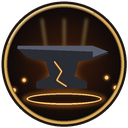
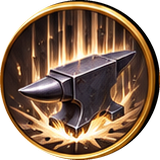
1차 전직 스킬 75종에 금테 원형 아이콘 적용

diff --git a/js/skillui.js b/js/skillui.js
@@ -41,8 +41,21 @@ function glyph(g, d) {
   else { g.lineWidth = 6; g.beginPath(); g.moveTo(0, 24); g.lineTo(0, -20); g.moveTo(-14, -6); g.lineTo(0, -22); g.lineTo(14, -6); g.stroke(); }
   g.restore();
 }
-// 그림 아이콘이 있는 스킬(견습생 기본 검술 8종·약사 1차 15종, tools/ui/skill_icons_crop.py → assets/ui/skills/<id>.png). 나머지는 아래 캔버스 임시 아이콘.
-const SKILL_ART = new Set(['nv_a1', 'nv_a2', 'nv_a3', 'nv_a4', 'nv_p1', 'nv_p2', 'nv_p3', 'nv_p4', ...['a1', 'a3', 'a4', 'a5', 'a6', 'b1', 'b2', 'b4', 'b5', 'b6', 'c1', 'c6', 'c7', 'c8', 'c9'].map(k => 'ph1_' + k), ...['a1', 'a2', 'a3', 'a4', 'a5', 'b1', 'b2', 'b3', 'b4', 'b5', 'c1', 'c2', 'c3', 'c4', 'c5'].map(k => 'bs1_' + k), ...['a1', 'a2', 'a3', 'a4', 'a5', 'b1', 'b2', 'b3', 'b4', 'b5', 'c1', 'c2', 'c3', 'c4', 'c5'].map(k => 'wp_' + k), ...['a1', 'a2', 'a3', 'a4', 'a5', 'b1', 'b2', 'b3', 'b4', 'b5', 'c1', 'c2', 'c3', 'c4', 'c5'].map(k => 'cf_' + k), ...['a1', 'a2', 'a3', 'a4', 'a5', 'b1', 'b2', 'b3', 'b4', 'b5', 'c1', 'c2', 'c3', 'c4', 'c5'].map(k => 'hb_' + k), ...['a1', 'a2', 'a3', 'a4', 'a5', 'b1', 'b2', 'b3', 'b4', 'b5', 'c1', 'c2', 'c3', 'c4', 'c5'].map(k => 'en_' + k), ...['a1', 'a2', 'a3', 'a4', 'a5', 'b1', 'b2', 'b3', 'b4', 'b5', 'c1', 'c2', 'c3', 'c4', 'c5'].map(k => 'ds_' + k), ...['a1', 'a2', 'a3', 'a4', 'a5', 'b1', 'b2', 'b3', 'b4', 'b5', 'c1', 'c2', 'c3', 'c4', 'c5'].map(k => 'pt_' + k), ...['a1', 'a2', 'a3', 'a4', 'a5', 'b1', 'b2', 'b3', 'b4', 'b5', 'c1', 'c2', 'c3', 'c4', 'c5'].map(k => 'mu_' + k)]);   // + 화가 2차 15종(tools/ui/painter_icons.py)   // + 엔지니어 2차 15종(tools/ui/en_icons.py)   // + 한약사 2차 15종(tools/ui/herbal_icons.py)   // + 쉐프 2차 15종(tools/ui/chef_icons.py) + 양약사 2차 15종(원형, tools/ui/wp_icons.py)   // + 대장장이 1차 15종(원형, tools/ui/smith_icons.py)   // 견습생(둥근 사각형) + 약사 1차(원형, 2026-11-11 개편 뒤 15종)   // + 디자이너 2차 15종(tools/ui/designer_icons.py)
+const SKILL_ART = new Set([
+  'nv_a1', 'nv_a2', 'nv_a3', 'nv_a4', 'nv_p1', 'nv_p2', 'nv_p3', 'nv_p4',
+  'ph1_a1', 'ph1_a4', 'ph1_a3', 'ph1_a6', 'ph1_a5', 'ph1_b1', 'ph1_b2', 'ph1_b6', 'ph1_b4', 'ph1_b5', 'ph1_c1', 'ph1_c7', 'ph1_c6', 'ph1_c8', 'ph1_c9',
+  'wp_a1', 'wp_a2', 'wp_a3', 'wp_a4', 'wp_a5', 'wp_b1', 'wp_b2', 'wp_b3', 'wp_b4', 'wp_b5', 'wp_c1', 'wp_c2', 'wp_c3', 'wp_c4', 'wp_c5',
+  'hb_a1', 'hb_a2', 'hb_a3', 'hb_a4', 'hb_a5', 'hb_b1', 'hb_b2', 'hb_b3', 'hb_b4', 'hb_b5', 'hb_c1', 'hb_c2', 'hb_c3', 'hb_c4', 'hb_c5',
+  'ck1_a1', 'ck1_a2', 'ck1_a3', 'ck1_a4', 'ck1_a5', 'ck1_b1', 'ck1_b2', 'ck1_b3', 'ck1_b4', 'ck1_b5', 'ck1_c1', 'ck1_c2', 'ck1_c3', 'ck1_c4', 'ck1_c5',
+  'cf_a1', 'cf_a2', 'cf_a3', 'cf_a4', 'cf_a5', 'cf_b1', 'cf_b2', 'cf_b3', 'cf_b4', 'cf_b5', 'cf_c1', 'cf_c2', 'cf_c3', 'cf_c4', 'cf_c5',
+  'bs1_a1', 'bs1_a2', 'bs1_a3', 'bs1_a4', 'bs1_a5', 'bs1_b1', 'bs1_b2', 'bs1_b3', 'bs1_b4', 'bs1_b5', 'bs1_c1', 'bs1_c2', 'bs1_c3', 'bs1_c4', 'bs1_c5',
+  'en_a1', 'en_a2', 'en_a3', 'en_a4', 'en_a5', 'en_b1', 'en_b2', 'en_b3', 'en_b4', 'en_b5', 'en_c1', 'en_c2', 'en_c3', 'en_c4', 'en_c5',
+  'hd1_a1', 'hd1_a2', 'hd1_a3', 'hd1_a4', 'hd1_a5', 'hd1_b1', 'hd1_b2', 'hd1_b3', 'hd1_b4', 'hd1_b5', 'hd1_c1', 'hd1_c2', 'hd1_c3', 'hd1_c4', 'hd1_c5',
+  'ds_a1', 'ds_a2', 'ds_a3', 'ds_a4', 'ds_a5', 'ds_b1', 'ds_b2', 'ds_b3', 'ds_b4', 'ds_b5', 'ds_c1', 'ds_c2', 'ds_c3', 'ds_c4', 'ds_c5',
+  'ar1_a1', 'ar1_a2', 'ar1_a3', 'ar1_a4', 'ar1_a5', 'ar1_b1', 'ar1_b2', 'ar1_b3', 'ar1_b4', 'ar1_b5', 'ar1_c1', 'ar1_c2', 'ar1_c3', 'ar1_c4', 'ar1_c5',
+  'pt_a1', 'pt_a2', 'pt_a3', 'pt_a4', 'pt_a5', 'pt_b1', 'pt_b2', 'pt_b3', 'pt_b4', 'pt_b5', 'pt_c1', 'pt_c2', 'pt_c3', 'pt_c4', 'pt_c5',
+  'mu_a1', 'mu_a2', 'mu_a3', 'mu_a4', 'mu_a5', 'mu_b1', 'mu_b2', 'mu_b3', 'mu_b4', 'mu_b5', 'mu_c1', 'mu_c2', 'mu_c3', 'mu_c4', 'mu_c5',
+]);
 export function skillIcon(d, size = 48) {
   const k = d.id + size; if (iconCache.has(k)) return iconCache.get(k);
   if (SKILL_ART.has(d.id)) { const html = `<span class="icon i3d skic ${d.id.startsWith('nv_') ? 'skart' : 'skround'}" style="width:${size}px;height:${size}px;background:url(assets/ui/skills/${d.id}.png) center/contain no-repeat;image-rendering:auto"></span>`; iconCache.set(k, html); return html; }

diff --git a/docs/STATUS.md b/docs/STATUS.md
@@ -138,6 +138,7 @@
 6. Tripo API 키 교체 권장 (대화에 노출됨, 잔여 크레딧 약 2865)
 
 ## 변경 기록
+- 2026-11-20: 1차 전직 다섯 직업의 스킬 아이콘 75종을 금테 원형 그림으로 교체. 목록·상세·장착 슬롯·전투 버튼에 같은 그림을 표시.
 - 2026-11-20: **남은 대륙 이름 '용흔' → '아카디아'**(사용자 '세계 지도와 NPC 대사에는 아직 용흔 대륙이 남아 있어요'). 게임 안에 보이던 곳은 카이리온 학술원 학자 루벤의 대사 한 줄('아카디아 대륙의 지도는 아직 절반도 채워지지 않았다네.' — `tools/world/residents.py` → `world.py --write` → `story.py --write` → `gear.py --write`, npcs.json은 그 한 줄만 바뀜)뿐이었음. 세계 지도는 글자에 '용흔'이 없었음(로고 '아스테리온 연대기', 배경 그림에 대륙 이름을 굽지 않음 — `paint_map.py` 다시 안 돌림); 코드 주석(`worldmap.js`·`paint_map.py`·`world.py`·`gear/designs.py`)과 AGENTS 절 제목 '아카디아 대륙 세계'도 바꿈. 대륙 이름이 아닌 '용의 흔적' 같은 말은 없었음. 주아체에 '아카디아' 글자 있음(글꼴 다시 안 만듦). 그대로 둔 것: 예전 변경 기록의 '용흔', 퀘스트 목록 설명의 '아르칸 대륙'(`ui.js` — 다른 이름이라 손대지 않음). 검증: 필수 테스트 16개 통과(core 555/50 생략, skills2 633, gates 1104, smith 197, storyscene 1481 …), check_nav all 49곳 0 fail, check_warps 0, check_visible 0 hidden, 브라우저 루벤 대화(1280×720 대사 확인, 390×844)·세계 지도(`worldshots.js`) 캡처 `/tmp/arcadia/`.
 - 2026-11-20: **스킬 이펙트 리마스터 10~12묶음 — 남은 1차·견습생 스킬 모두**(사용자 '남은 스킬 리마스터도 해줘'). 10 보조·버프: 색칠 표식(대상 발밑 붉은 육망성)·가벼운 행진곡(오선 마법진 + 금·보라 나선)·영감 충전(전구로 빨려 드는 빛, 다 차면 별 섬광)·즉흥 창작(무지개 나선)·작은 걸작(액자 아래 무지개 마법진)·아드레날린 주사(주사 순간까지 그려지는 주황 육망성 → 섬광·나선)·산뜻한 스타일링(분홍 소용돌이 마법진) — `rmfx.js` `buffAura`/`markOn`, 마법진 무늬 2개 추가(소용돌이·오선). 11 소품 스킬: 집게(당기는 빛 창 + 불꽃 별)·철벽(박히는 충격 고리, 막기 별 섬광)·끝단 자르기(가로 빛 칼날, 마무리면 금빛)·스텝 커트(층마다 별 섬광)·헤어롤 덫(발밑 소용돌이 마법진)·후추(반경 안 고리 + 불티)·밀가루(흰 충격 고리·밀가루 벽)·뒤집기(솟는 빛기둥)·도마(내려앉는 충격, 막기 별 섬광) — `pop`/`after`, `slam` 균열 없음 옵션. 12 최근 개편 스킬(예전 연출·시각 그대로, 층만): 일격참 빛 창 + 별 섬광, 비연참 청백 빛 리본, 배쉬 충격 반달 + 먼지, 유봉강타 구덩이 자리 slam, 유봉 되던지기 금빛 궤적 + 낚아챔 반짝임, 불꽃심지병 점화 불꽃 혀 고리, 서리병 얼음길 결정 + 실제 파편 부채꼴 서리·결정, 결정침 꽃잎 결정 파편, 꿈꽃가루 꽃바람 리본 + 잎 마법진, 튕김망치 금빛 궤적 + '깡!' 별, 급랭 수증기 기둥, 불량품 도장 충격 고리. 확인: DET=1 전/후 1280×720 28개 피해 시각·양 모두 같음, 휴대폰 5개 같음, 3초 뒤 남은 효과 0, 품질 낮음 = 예전(코드 경로 없음). draw call 높음/보통/낮음 배쉬 431/430/412·불꽃심지병 점화 455/453/434. 확인 못 함: 실제 기기 FPS, 끝단 자르기 마무리(체력 35% 이하) 금빛 층·도마 막기(맞는 장면 없이 찍음)는 화면으로 못 봄.
 - 2026-11-20: **음악가 2차 효과음 Runway 25개**(규칙이 내는 21개 `mu_pluck/bow/string/harp/harp_tick/cello/note/cymbal/burst/horn/fanfare/flute/flute_tick/wave_hit/chord/tune/echo/trio/coda/encore/symph` + 그림용 4개 `mu_sigil/sparkle/staff/phantom`, 모두 `mirelo_sfx_2_0` — eleven 은 THROTTLED로 밀려 취소, 48 크레딧): 합성음을 같은 이름으로 바꿈. 다듬기 뒤 길이 0.39~1.44초·최대 −3.1~−8.1 dB 확인, 출처 `musician-sfx-credits.json` `runway`. 이것으로 엔지니어·화가·음악가 2차 효과음은 모두 Runway. 귀로 들어 본 확인은 없음(파형 수치만).
